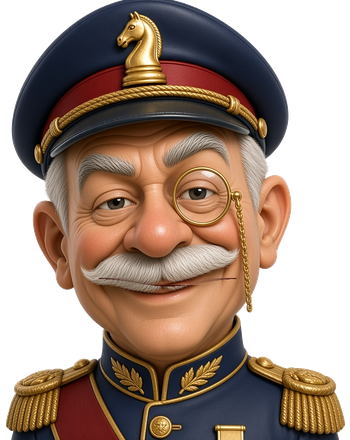
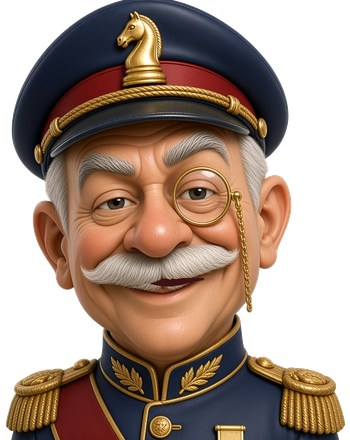
Explainer clips: fixed moustache, speech cloud, words pop in one by one (test cut STOPAT)
Claude-Session: https://claude.ai/code/session_01242z9HPDfponsdX6jdQH6z

Changed region(s): [[0.2857, 0.6205, 0.6571, 0.6795], [0.5429, 0.7091, 0.6857, 0.8273], [0.2857, 0.7386, 0.4, 0.8273]]

diff --git a/tools/clip/capture.js b/tools/clip/capture.js
@@ -12,7 +12,7 @@ const pop=(p,t,sq)=>p.evaluate(([t,sq])=>{ const old=document.getElementById('vi
   const w=e.firstChild.offsetWidth, x=Math.max(w/2+10,Math.min(innerWidth-w/2-10,(q.x+1)/2*innerWidth)); e.style.left=x+'px'; },[t,sq]);
 // spoken caption at the bottom (wraps); empty text hides it
 const cap=(p,t)=>p.evaluate(t=>{ const g=document.getElementById('vidGen'), bub=document.getElementById('vidBub');
-  if(g&&g.style.display==='block'){ bub.innerHTML=t||''; bub.style.display=t?'block':'none'; return; }
+  if(g&&g.style.display==='block'){ window.__bubSet(t); return; }
   let e=document.getElementById('vidCap'); if(!e){ e=document.createElement('div'); e.id='vidCap'; document.body.appendChild(e); }
   e.innerHTML=t||''; e.style.display=t?'block':'none'; },t);
 // drawn over the board every frame: box = the squares the lone black king is confined to by the white queen (red),
@@ -39,9 +39,28 @@ const ov=(p,o)=>p.evaluate(o=>{ let svg=document.getElementById('vidOv'); if(!sv
 const gen=(p,dir,on)=>p.evaluate(async([dir,on])=>{ let g=document.getElementById('vidGen');
   if(!g){ g=document.createElement('div'); g.id='vidGen'; for(let k=0;k<6;k++){ const i=new Image(); i.src='/marketing/'+dir+'/general/m'+k+'.png'; g.appendChild(i); }
     document.body.appendChild(g); const b=document.createElement('div'); b.id='vidBub'; document.body.appendChild(b);
-    window.__env=await (await fetch('/marketing/'+dir+'/general/env.json')).json(); await Promise.all([...g.children].map(i=>i.decode())); }
+    window.__env=await (await fetch('/marketing/'+dir+'/general/env.json')).json(); await Promise.all([...g.children].map(i=>i.decode()));
+    // speech cloud: the text is laid out in full (so the cloud has its final size at once), then every word pops in
+    // when the General says it (spread over the sentence by letters, ~15 letters a second)
+    window.__bubSet=t=>{ const bub=document.getElementById('vidBub'); window.__bub=null; if(!t){ bub.style.display='none'; return; }
+      bub.innerHTML='<svg class="cloud"></svg><div class="txt"></div>'; const tx=bub.lastChild; tx.innerHTML=t;
+      const words=[]; (function wrap(n){ for(const c of [...n.childNodes]){ if(c.nodeType===3){ const f=document.createDocumentFragment();
+          for(const part of c.textContent.split(/(\s+)/)){ if(!part) continue; if(/^\s+$/.test(part)){ f.appendChild(document.createTextNode(part)); continue; }
+            const sp=document.createElement('span'); sp.className='w'; sp.textContent=part; f.appendChild(sp); words.push(sp); } c.replaceWith(f); } else wrap(c); } })(tx);
+      bub.style.display='block'; const W=tx.offsetWidth, H=tx.offsetHeight, P=16, w=W+2*P, h=H+2*P;
+      // scalloped cloud around the text box plus a short pointed tail to the General on the left
+      const r=13, side=(x0,y0,x1,y1)=>{ const L=Math.hypot(x1-x0,y1-y0), n=Math.max(2,Math.round(L/(2*r))); let d='';
+        for(let i=1;i<=n;i++){ const x=x0+(x1-x0)*i/n, y=y0+(y1-y0)*i/n, R=L/n*.62; d+=` A ${R} ${R} 0 0 1 ${x.toFixed(1)} ${y.toFixed(1)}`; } return d; };
+      const ty=Math.min(h*.45,40), d=`M 0 ${ty+10}`+` L -22 ${ty+20} L 0 ${ty}`+side(0,ty,0,0).replace(/^/,'')+side(0,0,w,0)+side(w,0,w,h)+side(w,h,0,h)+side(0,h,0,ty+10)+' Z';
+      const sv=bub.firstChild; sv.setAttribute('width',w); sv.setAttribute('height',h); sv.style.left=(-P)+'px'; sv.style.top=(-P)+'px';
+      sv.innerHTML='<path d="'+d+'" fill="#fffaf0" stroke="#15130f" stroke-width="3" stroke-linejoin="round"/>';
+      let acc=0; const total=words.reduce((a,x)=>a+x.textContent.length+1,0);
+      window.__bub={t0:performance.now(),words:words.map(x=>{ const at=acc/15; acc+=x.textContent.length+1; return {el:x,at}; }),total}; };
+  }
   g.style.display=on?'block':'none'; if(!on){ document.getElementById('vidBub').style.display='none'; window.__genTick=null; return; }
   window.__genTick=()=>{ const t=(performance.now()-window.__t0)/1000, f=Math.round(t*24), k=window.__env[f]||0;
+    const B=window.__bub; if(B){ const s=(performance.now()-B.t0)/1000; for(const w of B.words){ const u=Math.max(0,Math.min(1,(s-w.at)/.16)), e=1-Math.pow(1-u,3);
+      w.el.style.opacity=e; w.el.style.transform='translateY('+((1-e)*10).toFixed(1)+'px) scale('+(.6+.4*e).toFixed(3)+')'; } }
     [...g.children].forEach((im,i)=>im.style.visibility=i===k?'visible':'hidden');
     g.style.transform='rotate('+(k?Math.sin(t*9)*1.6*k/5:0)+'deg) translateY('+(-k*.6)+'px)'; };
   window.__genTick(); },[dir,on]);
@@ -362,7 +381,7 @@ const SCRIPTS={
  const START=+(process.env.START||0);
  const ONLY=+(process.env.ONLY||0); // re-render just the first ONLY frames (e.g. after changing the hook), keep the rest
  const t0=await p.evaluate(()=>{ window.__rec.length=0; window.__t0=performance.now(); return performance.now(); });
- const shoot=async(ms,each)=>{ const k=Math.round(ms/dtms); for(let i=0;i<k;i++){ if(each) await each(k>1?i/(k-1):1); await p.clock.runFor(dtms); if(n<START||(ONLY&&n>=ONLY)||(process.env.EVERY&&n%+process.env.EVERY)){ n++; continue; } await p.evaluate(()=>{ if(window.__badgeTick) window.__badgeTick(); if(window.__capTick) window.__capTick(); if(window.__ovTick) window.__ovTick(); if(window.__genTick) window.__genTick(); for(const a of document.getAnimations()){ if(a.__st===undefined){ a.__st=performance.now(); a.pause(); } a.currentTime=performance.now()-a.__st; } }); await p.screenshot({path:`${FR}/f${String(n++).padStart(5,'0')}.jpg`,type:'jpeg',quality:88}); } };
+ const shoot=async(ms,each)=>{ const k=Math.round(ms/dtms); for(let i=0;i<k;i++){ if(each) await each(k>1?i/(k-1):1); await p.clock.runFor(dtms); if(process.env.STOPAT&&n>=+process.env.STOPAT){ console.log('frames',n); process.exit(0); } if(n<START||(ONLY&&n>=ONLY)||(process.env.EVERY&&n%+process.env.EVERY)){ n++; continue; } await p.evaluate(()=>{ if(window.__badgeTick) window.__badgeTick(); if(window.__capTick) window.__capTick(); if(window.__ovTick) window.__ovTick(); if(window.__genTick) window.__genTick(); for(const a of document.getAnimations()){ if(a.__st===undefined){ a.__st=performance.now(); a.pause(); } a.currentTime=performance.now()-a.__st; } }); await p.screenshot({path:`${FR}/f${String(n++).padStart(5,'0')}.jpg`,type:'jpeg',quality:88}); } };
  // a piece is picked (select sound), then moves
  const mv=async(from,to,hold,each)=>{ if(from==='undo'){ await p.evaluate(()=>window.__v().undo()); return shoot(hold||0); } log.push([n/FPS,from,to]); await p.evaluate(([a,c])=>{ window.__rec.push([performance.now()-120,'sel',.8]); window.__mover=window.__v().pieces()[a]; window.__v().doMove({from:a,to:c}); },[from,to]); await shoot(hold,each&&(u=>each(u,to))); };
  if(SC.start) await fly(p,...SC.start.slice(0,4),1,SC.start[4]);

diff --git a/tools/clip/overlay.html b/tools/clip/overlay.html
@@ -23,10 +23,11 @@ body.compact #vidTitle .l2{top:3%;transition:top .5s ease-in-out}
 /* the talking General top left (mouth frames from the voice's loudness) with his speech bubble to the right */
 #vidGen{position:fixed;left:6px;top:8.5%;width:150px;height:189px;z-index:61;display:none;transform-origin:50% 90%}
 #vidGen img{position:absolute;inset:0;width:100%;height:100%;visibility:hidden;filter:drop-shadow(0 4px 10px rgba(0,0,0,.6))}
-#vidBub{position:fixed;left:160px;top:10%;max-width:300px;width:max-content;z-index:61;display:none;background:#fffaf0;color:#15130f;border:3px solid #15130f;border-radius:18px;padding:10px 14px;font-family:'Barlow Condensed',sans-serif;font-weight:700;font-size:27px;line-height:1.15;box-shadow:0 6px 16px rgba(0,0,0,.45)}
-#vidBub b{color:#b3261e}
-#vidBub::before{content:'';position:absolute;left:-17px;top:26px;border:9px solid transparent;border-right:16px solid #15130f}
-#vidBub::after{content:'';position:absolute;left:-11px;top:29px;border:6px solid transparent;border-right:12px solid #fffaf0}
+#vidBub{position:fixed;left:166px;top:9.5%;z-index:61;display:none}
+#vidBub .cloud{position:absolute;overflow:visible;filter:drop-shadow(0 6px 10px rgba(0,0,0,.45))}
+#vidBub .txt{position:relative;max-width:290px;width:max-content;font-family:'Barlow Condensed',sans-serif;font-weight:700;font-size:27px;line-height:1.15;color:#15130f}
+#vidBub .txt b{color:#b3261e}
+#vidBub .w{display:inline-block;opacity:0;white-space:pre}
 #vidOv{position:fixed;inset:0;z-index:44;pointer-events:none;width:100vw;height:100vh}
 @keyframes popIn{from{transform:scale(.4);opacity:0}to{transform:scale(1);opacity:1}}
 #vidHook{position:fixed;left:0;right:0;top:34%;display:none;z-index:58;text-align:center;pointer-events:none}

diff --git a/marketing/explain-kq/make_general.py b/marketing/explain-kq/make_general.py
@@ -8,24 +8,30 @@ here=os.path.dirname(os.path.abspath(__file__))
 src=Image.open(os.path.join(here,'../../brand/general/general-gambit-cutout.png')).convert('RGBA')
 S=np.asarray(src).astype(np.float32); H,W=S.shape[:2]
 box=(90,20,790,900)                       # cap to chest
-CUT, CX, SX = 576, 425, 85                # mouth line under the moustache, mouth centre, mouth half-width
+CUT, CX, SX = 576, 425, 58                # mouth line under the moustache, mouth centre, mouth half-width
 CHIN, COLLAR = 700, 770                   # full jaw movement down to the chin, fading out to the collar
 ys,xs=np.mgrid[0:H,0:W].astype(np.float32)
 wx=np.exp(-((xs-CX)/SX)**2); wx[wx<.04]=0
 fall=np.clip((COLLAR-ys)/(COLLAR-CHIN),0,1); fall=fall*fall*(3-2*fall)
 mouth=np.array([62,18,20,255],np.float32)
+# moustache mask: grey/white hair in the moustache area, grown by a few pixels so the soft hair edge is included
+r,g,b=S[...,0],S[...,1],S[...,2]; mx=np.maximum(np.maximum(r,g),b); mn=np.minimum(np.minimum(r,g),b)
+hair=(mx>110)&((mx-mn)<42)&(xs>235)&(xs<615)&(ys>470)&(ys<612)
+m=Image.fromarray((hair*255).astype(np.uint8)).filter(ImageFilter.MaxFilter(5)).filter(ImageFilter.MinFilter(3))
+MUST=np.asarray(m)>127
+
 for k in range(6):
     d=k*5.5; off=d*wx
     out=S.copy(); below=ys>=CUT
     sy=np.where(below, ys-off*fall, ys)
-    gap=below&(off>1.2)&(ys<CUT+off)                 # the opened mouth
+    gap=below&(off>3.5)&(ys<CUT+off)                 # the opened mouth
     sy=np.clip(sy,0,H-1); y0=np.floor(sy).astype(int); y1=np.minimum(y0+1,H-1); t=(sy-y0)[...,None]
     warped=S[y0,xs.astype(int)]*(1-t)+S[y1,xs.astype(int)]*t
     out[below]=warped[below]
     out[gap]=mouth
     im=Image.fromarray(out.clip(0,255).astype(np.uint8),'RGBA')
-    # moustache on top, soft edge
-    mt=src.crop((230,470,620,CUT+14)); mm=Image.new('L',mt.size,0); ImageDraw.Draw(mm).ellipse((0,-40,mt.width,mt.height),fill=255)
-    im.paste(mt,(230,470),Image.composite(mt.getchannel('A'),Image.new('L',mt.size,0),mm.filter(ImageFilter.GaussianBlur(5))))
+    # the whole moustache stays exactly where it is: its grey/white hair pixels (low saturation, bright) are copied back
+    # unwarped on top, so neither the tips nor single grey strands move with the jaw
+    out2=np.asarray(im).astype(np.float32).copy(); out2[MUST]=S[MUST]; im=Image.fromarray(out2.clip(0,255).astype(np.uint8),'RGBA')
     im.crop(box).resize((350,440),Image.LANCZOS).save(os.path.join(here,f'general/m{k}.png'),optimize=True)
 print('ok')
